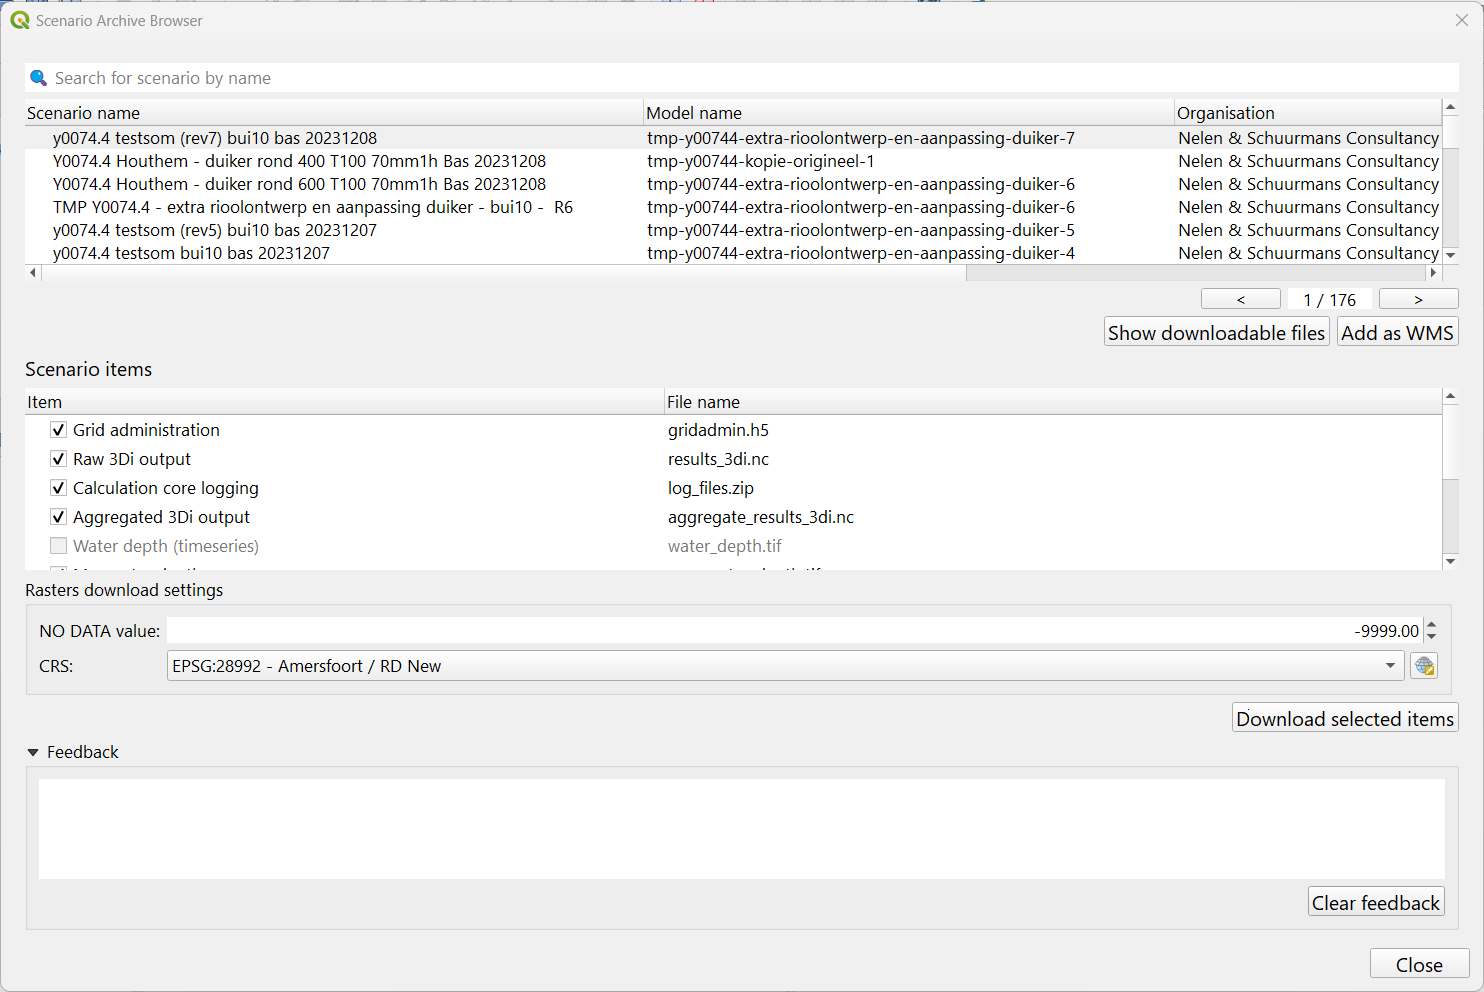
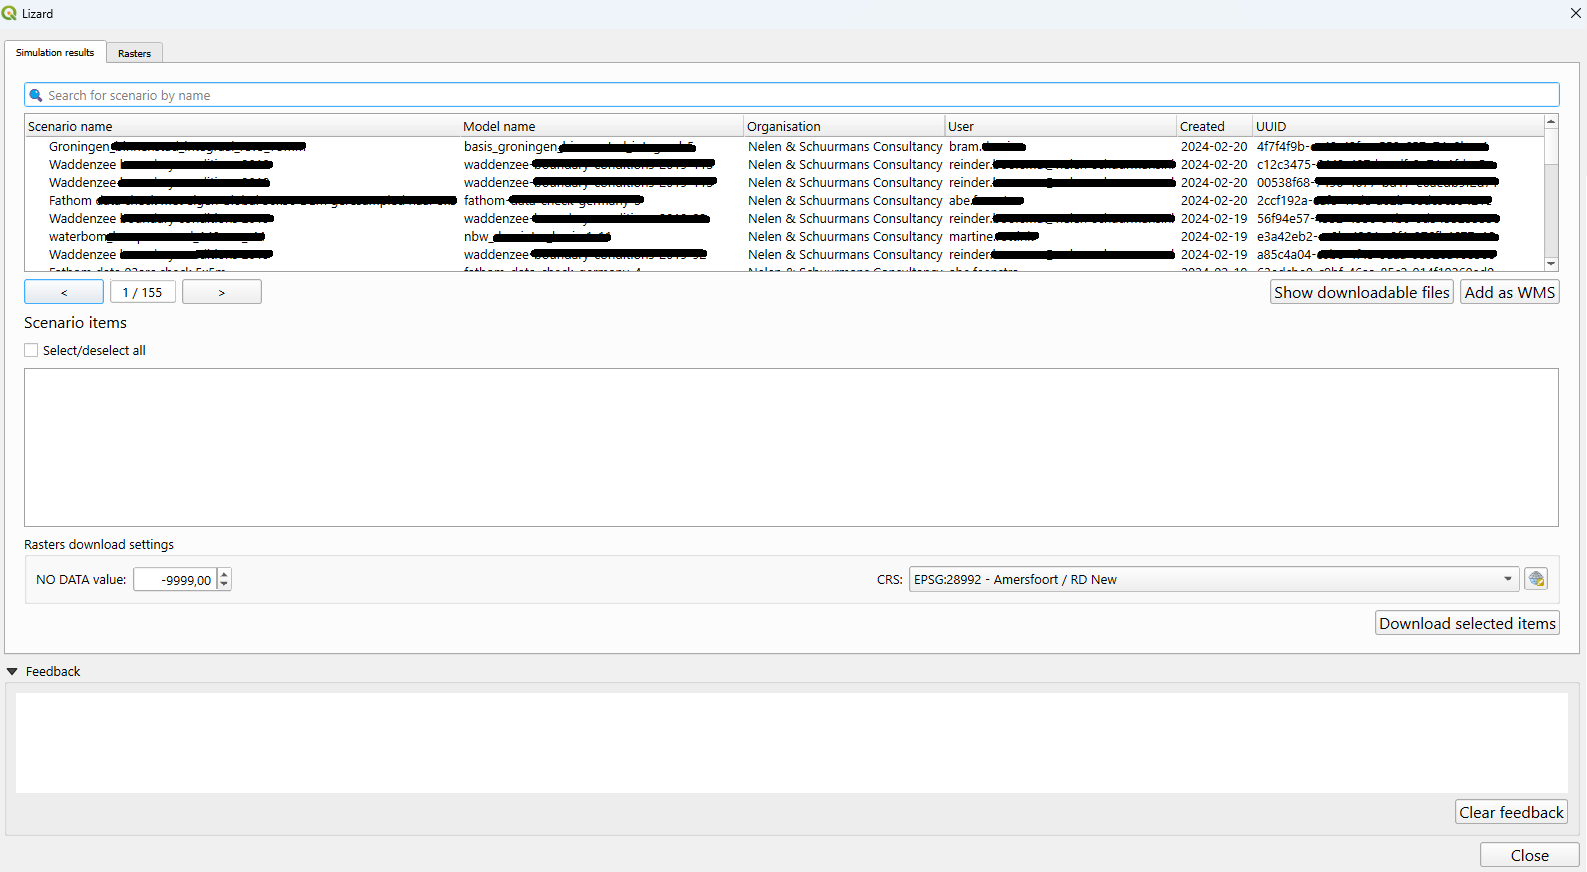
Update QGIS plugin

diff --git a/source/d_qgisplugin.rst b/source/d_qgisplugin.rst
@@ -3,76 +3,121 @@ Lizard QGIS plugin
 ==================
 
 The Lizard QGIS plugin enables users to download their scenario results directly from the Lizard API 
-to their GIS environment and show WMS of raster results.
-Here we describe how to install and use the plugin.
+to their GIS environment and show them as WMS layers.
+On this page you will find how to install, setup and use the plugin.
 
 
 Installation
 ============
 
+.. note:: Note: if you are using the `3Di Modeller Interface <https://docs.3di.live/i_what_is_mi.html>`_ the Lizard plugin repository is already added.
+
 * Add the Lizard plugin repository
-    * Note: if you are using the `3Di Modeller Interface <https://docs.3di.live/i_what_is_mi.html>`_, you can skip this step.
-    * In the main menu click *Plugins* > *Manage and Install plugins* > *Settings* 
-    * In the section *Plugin repositories*, click *Add*
-    * As details, fill in '3Di' as *Name*, and 'https://plugins.lizard.net/plugins.xml' as *URL*
+    1. In the main menu click *Plugins* > *Manage and Install plugins* > *Settings* 
+    2. In the section *Plugin repositories*, click *Add*
+    3. As details, fill in '3Di' as *Name*, and 'https://plugins.lizard.net/plugins.xml' as *URL*
 
 * Install the Lizard plugin
-    * Click on the tab *All*
-    * In the search bar at the top, search for Lizard
-    * Select Lizard in the panel in the middle
-    * In the bottom-right of the dialog, click *Install plugin*.
+    1. Click on the tab *All*
+    2. In the search bar at the top, search for Lizard
+    3. Select Lizard in the panel in the middle
+    4. In the bottom-right of the dialog, click *Install plugin*.
 
 Initial setup
 =============
 
-When starting the plugin for the first time you are prompted to provide some settings that are required.
-In the following screen you need to provide:
+The Lizard plugin consists of two components: the plugin and its settings.
 
-* The base URL of the Lizard portal you want to use. This will typically be *your_organisation*.lizard.net.
+Before you are able to start the plugin, you are required to provide an API key within the settings.
+If you do not provide an API key first, you will receive a pop-up with the following message:
 
-* A Personal API Key. If you already have an API Key, you can fill it in by clicking "Set...". If you do not have a Personal API Key yet, follow these steps.
+`There is no Lizard API key defined. Please set it up and try again.`
 
-    * Click "Obtain..." You will be redirected to the management page where you can create a new Personal API Key.
+Which is followed by the settings menu.
+There are only two settings to worry about:
+* Base URL: this is the Lizard portal you would like to acces. This will typically be *your_organisation*.lizard.net.
+* API Key: your personal API key. You can provide one by clicking `Set...`. 
+ 
+If you do not have a Personal API Key yet, follow these steps:
 
-    * Create a new Personal API Key by pressing the + NEW ITEM button in the upper right corner.
-
-    * Fill in a name for the new Personal API Key. Click on ‘Submit’ to the right.
-
-    * You now have your own Personal API Key. Copy it.
-
-    * Return to QGIS / the 3Di Modeller Interface.
-
-    * Click Set… and paste your Personal API Key. Then click Save.
+1. Click `Obtain...` You will be redirected to the management page where you can create a new Personal API Key.
+2. Create a new Personal API Key by pressing the + NEW ITEM button in the upper right corner.
+3. Fill in a name for the new Personal API Key. Click on `Submit` to the right.
+4. You now have your own Personal API Key. Copy it.
+5. Return to QGIS / the 3Di Modeller Interface.
+6. Click Set… and paste your Personal API Key. Then click Save.
 
 .. image:: /images/d_qgisplugin01.png
 
 
-Scenario archive browser
-========================
+Lizard browser
+==============
 
-The Lizard plugin currently contains the Scenario archive browser (to be extended with more functionality).
+The Lizard plugin currently contains a `Simulations results`_ section and a `Rasters`_ section.
 
-* Select a scenario from the list, which can be filtered by scenario name.
 
-After selecting a scenario, you have two options:
+Simulations results
+-------------------
 
-* Retrieve downloadable results (raw results and non-temporal rasters)
-
-    * Select the results of interest
-
-    * [Optional] Set nodata value and projection that the downloaded rasters should get.
-
-    * Start the download
-
-    * Follow the progress at the top of the QGIS main window.
-
-* Add raster results to your project as WMS layers
-
-    * Use the `Temporal Controller<https://docs.qgis.org/3.28/en/docs/user_manual/map_views/map_view.html?highlight=temporal%20controller#time-based-control-on-the-map-canvas>` to animate temporal raster  results (e.g. water depth)
-
-.. note:
-   
-    Downloading temporal rasters is not supported at the moment. To visualize them in QGIS or the 3Di Modeller Interface, add them as WMS and use the `Temporal Controller<https://docs.qgis.org/3.28/en/docs/user_manual/map_views/map_view.html?highlight=temporal%20controller#time-based-control-on-the-map-canvas>` to navigate through its time steps.
-
+The simulation results section consists of three compartments: scenario selection, scenario items and feedback.
 .. image:: /images/d_qgisplugin02.png
 
+The scenario selection, which can be found at the top of the section. With the search bar a scenario can be found.
+Once a scenario has been selected two options are available, below the scenario overview on the right:
+* `Show downloadable files`: will display all downloadable files in the middle compartment.
+* `Add as WMS`: adds all downloadable layers as WMS into your project.
+
+Within the scenario items compartment all results are shown.
+Downloadable results will be black, others are shown as grey.
+
+.. image:: /images/d_qgisplugin02a.png
+
+To download results:
+1. Select the results of interest
+2. [Optional] Set nodata value and projection that the downloaded rasters should get.
+3. Start the download
+4. Follow the progress at the top of the QGIS main window.
+
+Temporal layers are currently not available to download can be shown as WMS layers.
+To inspect their changes over time: use the `Temporal Controller<https://docs.qgis.org/3.28/en/docs/user_manual/map_views/map_view.html?highlight=temporal%20controller#time-based-control-on-the-map-canvas>` to animate temporal raster results (e.g. water depth).
+
+
+The last compartment consists of feedback. 
+Within this section the actions of the plugin are reported. 
+Some examples are:
+* Scenario download task added to the queue.
+* Scenario download finished.
+* WMS layers for scenario added to the project.
+
+If an action fails for any reason this will also be reported in the feedback compartment.
+
+.. image:: /images/d_qgisplugin03.png
+
+Rasters
+-------
+
+.. image:: /images/d_qgisplugin04.png
+
+Accessing rasters through the Lizard plugin works like the scenario's, except that scenario's contain multiple rasters.
+Temporal rasters can only be used as WMS layers.
+Static layers can be downloaded.
+
+To download a raster multiple settings can be provided:
+
+* The output folder: the folder in which the file will be saved.
+* The filename: the name of the file.
+* Map extent based on:
+    * Map canvas: the entire map is exported.
+    * Polygons: the polygon provided is used to export the project.
+* No-data value: the value which represents no-data available.
+* Pixel-size: the size of each individual pixel
+* CRS: coordinate system.
+
+.. image:: /images/d_qgisplugin05.png
+
+The last compartment consists of feedback. Within this section the actions of the plugin are reported. Some examples are:
+* Scenario download task added to the queue.
+* Scenario download finished.
+* WMS layers for scenario added to the project.
+
+If an action fails for any reason this will also be reported in the feedback compartment.
